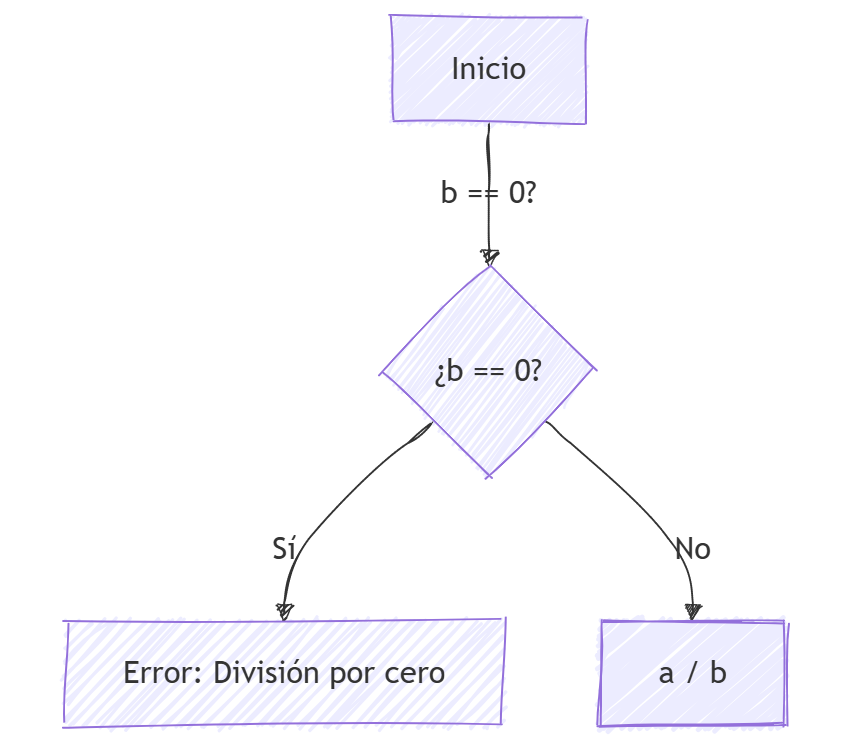
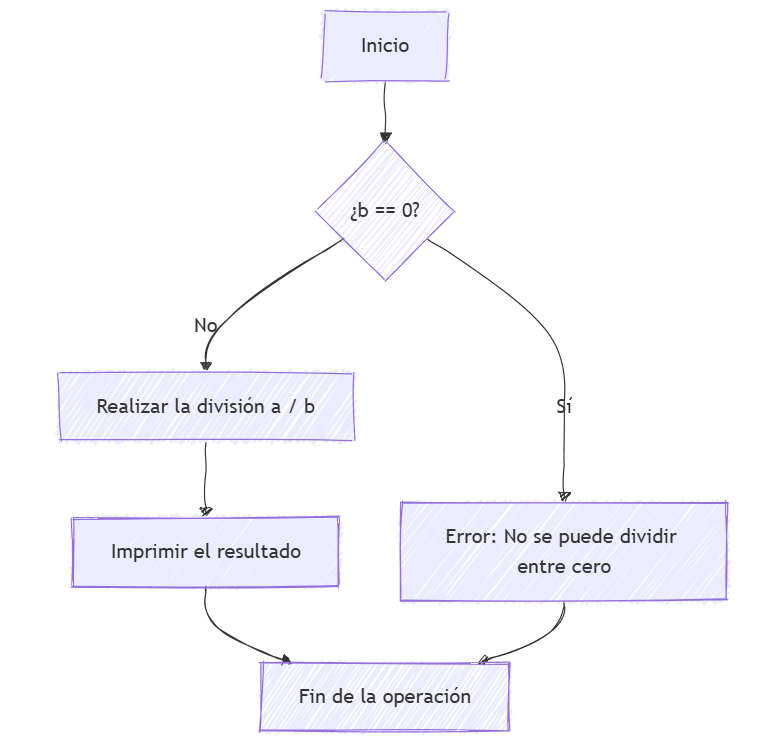
ok

diff --git a/README.md b/README.md
@@ -14,19 +14,26 @@ def division(a, b):
 ```
 
 ### **Descripción del flujo de control**  
-1. **Inicio (Nodo 1):** Se evalúa la condición `b == 0`.  
-2. **Camino Verdadero:** Si `b == 0`, la función retorna un mensaje de error (**Nodo 2**).  
-3. **Camino Falso:** Si `b != 0`, se realiza la operación de división y se retorna el resultado (**Nodo 3**).  
+- **A[Inicio]**: Es el punto de inicio del proceso.
+- **B{¿b == 0?}**: Se pregunta si `b` es igual a cero.
+- **C[Error: No dividir entre cero]**: Si la respuesta es "Sí", se muestra el mensaje de error.
+- **D[Realizar la división a / b]**: Si la respuesta es "No", se realiza la división.
+- **E[Imprimir el resultado]**: Luego, se imprime el resultado de la división.
+- **F[Fin de la operación]**: Finalmente, se termina la operación.
 
 ### **Diagrama del Grafo de Flujo**  
 ```
-    (1) [Inicio]
+    (A) [Inicio]
         |
-      b == 0 ?
+    (B) b == 0 ?
       /     \
     Sí       No
-   (2)       (3)
- "Error"    a / b
+   (C)       (D)
+    |       a / b
+    |         |
+Error:     (E)impr result 
+     \        / 
+   (F)fin de operacion
 ```
 
 ![](imagenes/diagrama_grafo_division.png)
@@ -48,3 +55,5 @@ def multiplicacion(a, b):
         |
       a * b
 ```
+![](imagenes/diagrama_grafo_multiplicacion.png)
+
